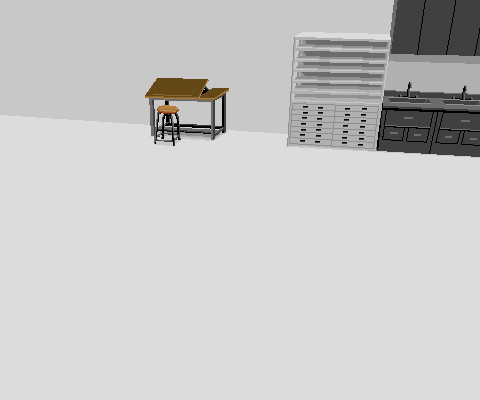
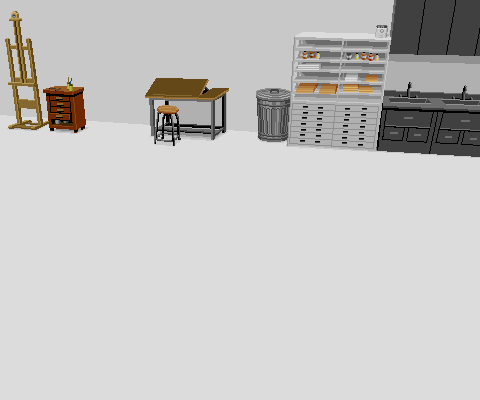
Start of artworks in the northeast part of studio.

diff --git a/packages/retronator-hq/floor4/artstudio/northeast/northeast.html b/packages/retronator-hq/floor4/artstudio/northeast/northeast.html
@@ -2,7 +2,20 @@
   <div class="retronator-hq-artstudio-northeast retronator-hq-artstudio-contextwithartworks">
     <div class="scene {{highlightingActiveClass}}">
       <div class="studio" data-origin-x="0" data-origin-y="0" data-depth="0"></div>
+      <div class="background" data-origin-x="0" data-origin-y="0" data-depth="0">
+        <div class="{{artworkClasses 'inAMoment'}}"></div>
+        <div class="drawing-board"></div>
+        <div class="{{artworkClasses 'evilIsLoveSpelledBackwards'}}"></div>
+        <div class="drawing-board-clamps"></div>
+        <div class="{{artworkClasses 'night21'}}"></div>
+        <div class="{{artworkClasses 'withersFamily'}}"></div>
+        <div class="{{artworkClasses 'skogsra'}}"></div>
+        <div class="{{artworkClasses 'kaley'}}"></div>
+        <div class="{{artworkClasses 'aquaticBotanical'}} aquatic-ii aquatic-iii aquatic-v botanical-iii botanical-ix botanical-v"></div>
+        <div class="{{artworkClasses 'cardinalCity'}}"></div>
+      </div>
       <div class="easel-left" data-origin-x="0" data-origin-y="0" data-depth="0.1"></div>
+      <div class="table-left" data-origin-x="0" data-origin-y="0" data-depth="0.3"></div>
       <div class="furniture-midback" data-origin-x="0" data-origin-y="0" data-depth="0.3"></div>
       <div class="stands" data-origin-x="0" data-origin-y="0" data-depth="0.4"></div>
       <div class="furniture-middle" data-origin-x="0" data-origin-y="0" data-depth="0.5"></div>
